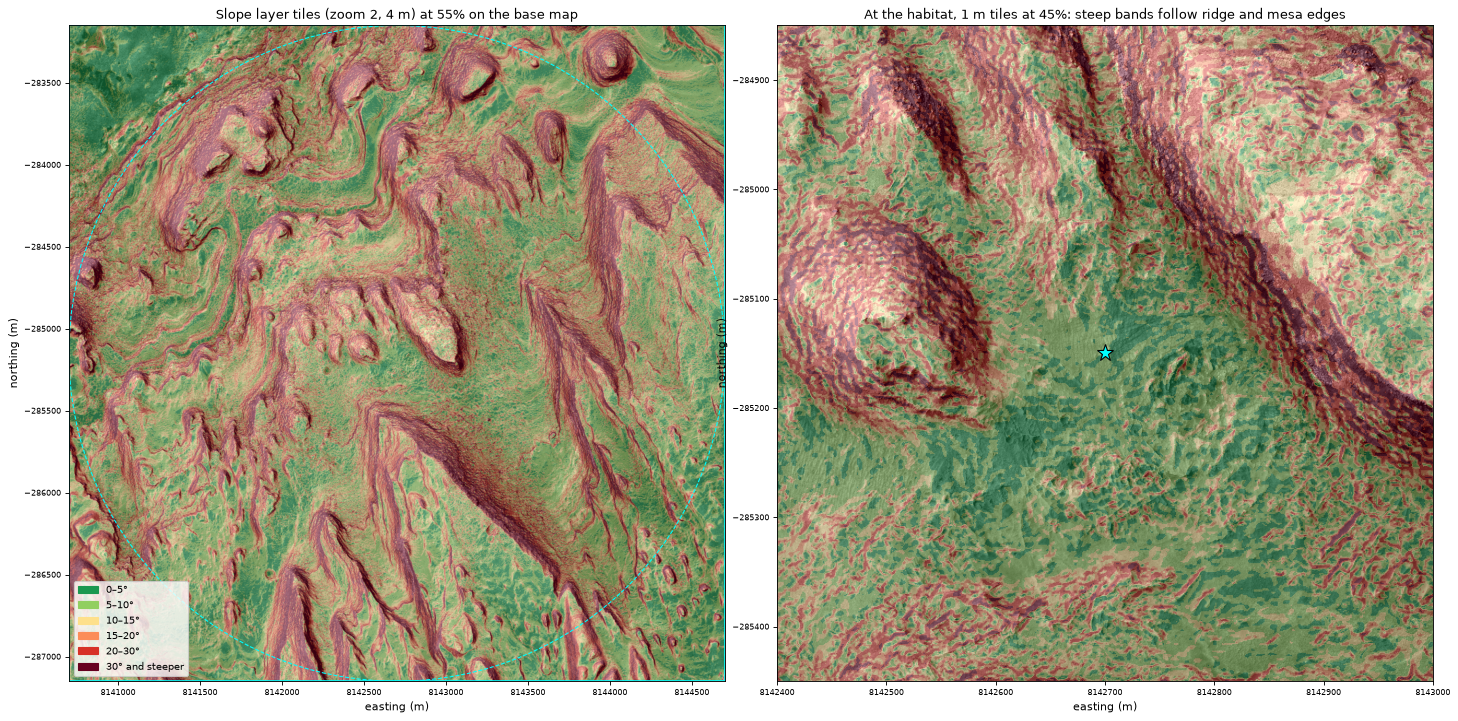
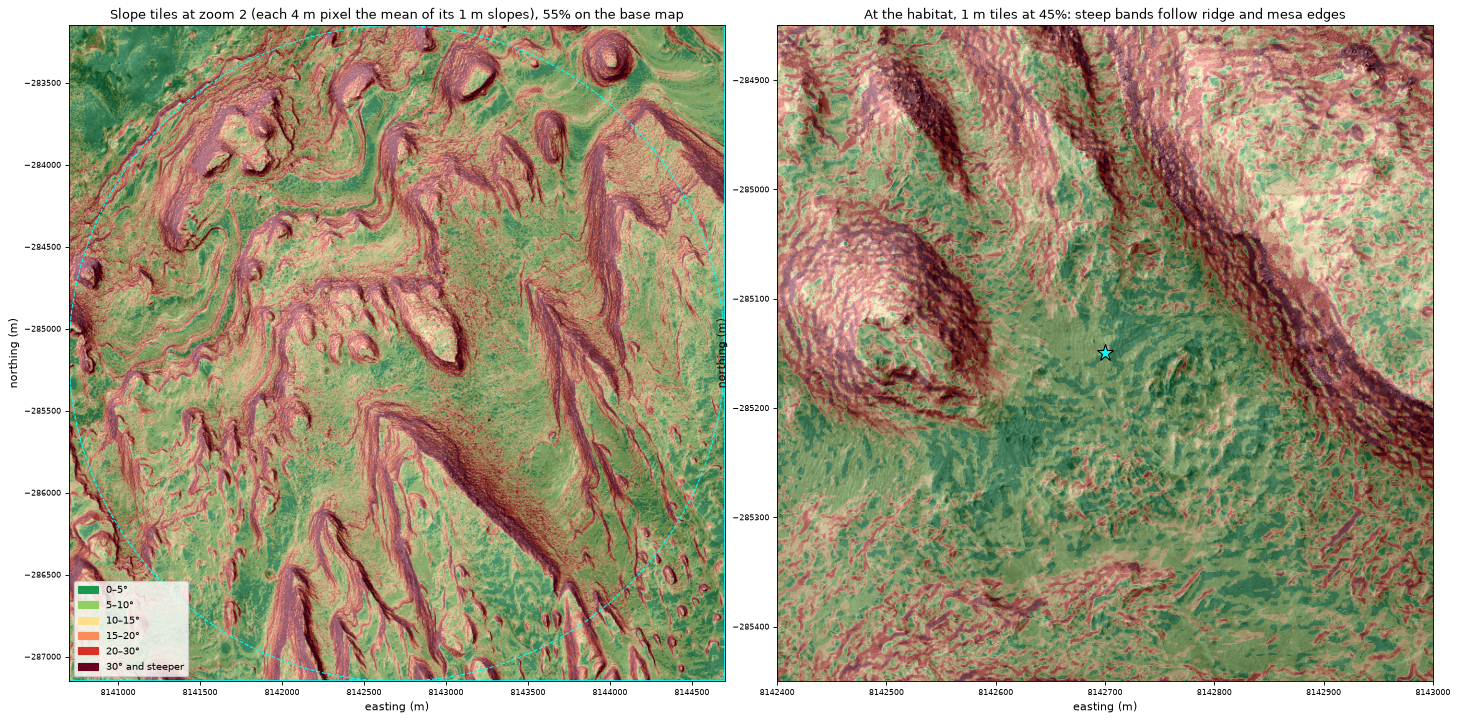
docs: app evidence taken at a fixed viewport, mean-slope overviews, and the slope rollout step (#19)

Changed region(s): [[0.0617, 0.0, 0.463, 0.0305]]

diff --git a/prep/README.md b/prep/README.md
@@ -25,10 +25,11 @@ Every Jezero position is in the site frame `+proj=eqc +lat_ts=18.4663 +lon_0=0 +
 
 ## Layer 1 at Gale: base map tiles and slope (P2-02)
 
-`REDMARK_DATA=~/redmark-data uv run python -m prep.gale.build_layers` reads the P2-01 crops named in `sites/gale.yaml` and writes, under `$REDMARK_DATA/gale/`, `rasters/slope.tif` (for the route engine), `layers/base/` and `layers/slope/` (for the map), each with a `provenance.json`, and two overlays in `layers/overlays/`, copied to `gale/evidence/`. It names the slope raster as `files.slope` in `sites/gale.yaml`. It takes about 15 seconds.
+`REDMARK_DATA=~/redmark-data uv run python -m prep.gale.build_layers` reads the P2-01 crops named in `sites/gale.yaml` and writes, under `$REDMARK_DATA/gale/`, `rasters/slope.tif` (for the route engine), `layers/base/` and `layers/slope/` (for the map), each with a `provenance.json` (script, commit, and the checksums of its input files and of `sites/gale.yaml` as the build read it, since the config sets the bounds and names the inputs), and two overlays in `layers/overlays/`, copied to `gale/evidence/`. It names the slope raster as `files.slope` in `sites/gale.yaml`. It takes about 15 seconds.
 
 - **Tiles.** Both layers cover the walk area (`bounds` in the site config), laid out by the layer contract: at `max_zoom` one pixel is `resolution_m`, each lower zoom halves it, and tile (x, y) counts from the north-west corner. Tiles are 250 px, which divides the 4 km walk area exactly at 25 cm (64 tiles across, zoom 6) and at 1 m (16, zoom 4), so no tile reaches past the edge. Where one would, its outside part is transparent, and tiles wholly outside are not written.
 - **Base map.** The photo map crop at its own 25 cm, unresampled (the walk area sits a whole number of pixels into the crop), as grey JPEG tiles at quality 90: 5,461 tiles, about 100 MB.
-- **Slope.** Degrees from the 1 m terrain by central differences on the terrain's own grid, which sits half a metre off the whole metre. Map metres are used as ground metres; at Gale they differ by under 0.3% east–west (team plan). `rasters/slope.tif` covers the whole crop on that grid, so the route engine reads it unresampled. The slope layer resamples it bilinearly onto the walk area's whole-metre grid and colours it in bands with edges at 5, 10, 15, 20 and 30°, so the route's two slope limits (15° and 20°) are band edges. A cell with a missing height, or next to one, is unknown and transparent; a pixel drawing on an unknown cell is unknown too, so a hole is never filled with a guess.
-- **Overlays.** `slope.png` shows the slope tiles on the photo map, over the walk area and at full detail round the habitat. `base-tiles.png` pastes the base tiles together using only `layer.json`, beside the crop placed by its own GeoTIFF transform, with Curiosity's PLACES stops on both.
+- **Slope.** Degrees from the 1 m terrain by central differences on the terrain's own grid, which sits half a metre off the whole metre. Map metres are used as ground metres; at Gale they differ by under 0.3% east–west (team plan). `rasters/slope.tif` covers the whole crop on that grid, so the route engine reads it unresampled. The slope layer resamples it bilinearly onto the walk area's whole-metre grid and colours it in bands with edges at 5, 10, 15, 20 and 30°, so the route's two slope limits (15° and 20°) are band edges. Each zoom down takes the mean of 2 × 2 slopes before colouring, so every zoom shows only legend colours; averaging the colours would make blends the legend doesn't hold. A cell with a missing height, or next to one, is unknown and transparent; a pixel drawing on an unknown cell is unknown too, so a hole is never filled with a guess.
+- **Overlays.** `slope.png` shows the slope tiles on the photo map, over the walk area and at full detail round the habitat. `base-tiles.png` pastes the base tiles together using only `layer.json`, beside the crop placed by its own GeoTIFF transform, with Curiosity's PLACES stops on both. `app-base-map.png` and `app-slope.png` are Person 1's map on these layers: the habitat marker sits at the photo's centre, and the 2 km walk-limit circle touches its edges. Take app screenshots with a fixed viewport (puppeteer `setViewport`), not Chrome's `--screenshot` flag, which leaves room for window chrome and stretches the map canvas against the markers.
+- **Rolling out.** `sites/gale.yaml` names `files.slope`, so the route engine needs `gale/rasters/slope.tif` in every data folder it reads. A folder with only the P2-01 crops makes `POST /route` fail with HTTP 500. Copy `gale/rasters/slope.tif` and `gale/layers/` into each `REDMARK_DATA` (shared folder, USB copy) before that checkout pulls this config, or run the build there.
 - **Stub.** `contracts/stubs/stub-data/gale/rasters/slope.tif` is a 656-byte stand-in (40 × 40 cells of 100 m, 1° everywhere over the walk area), so the route engine finds the file `sites/gale.yaml` names when `REDMARK_DATA` is unset. It is force-added past the `*.tif` ignore rule. It is 1°, not 0°, because on exactly flat float32 ground the route's planning-speed check reads 2.00000005 km/h against its 2 km/h limit.
